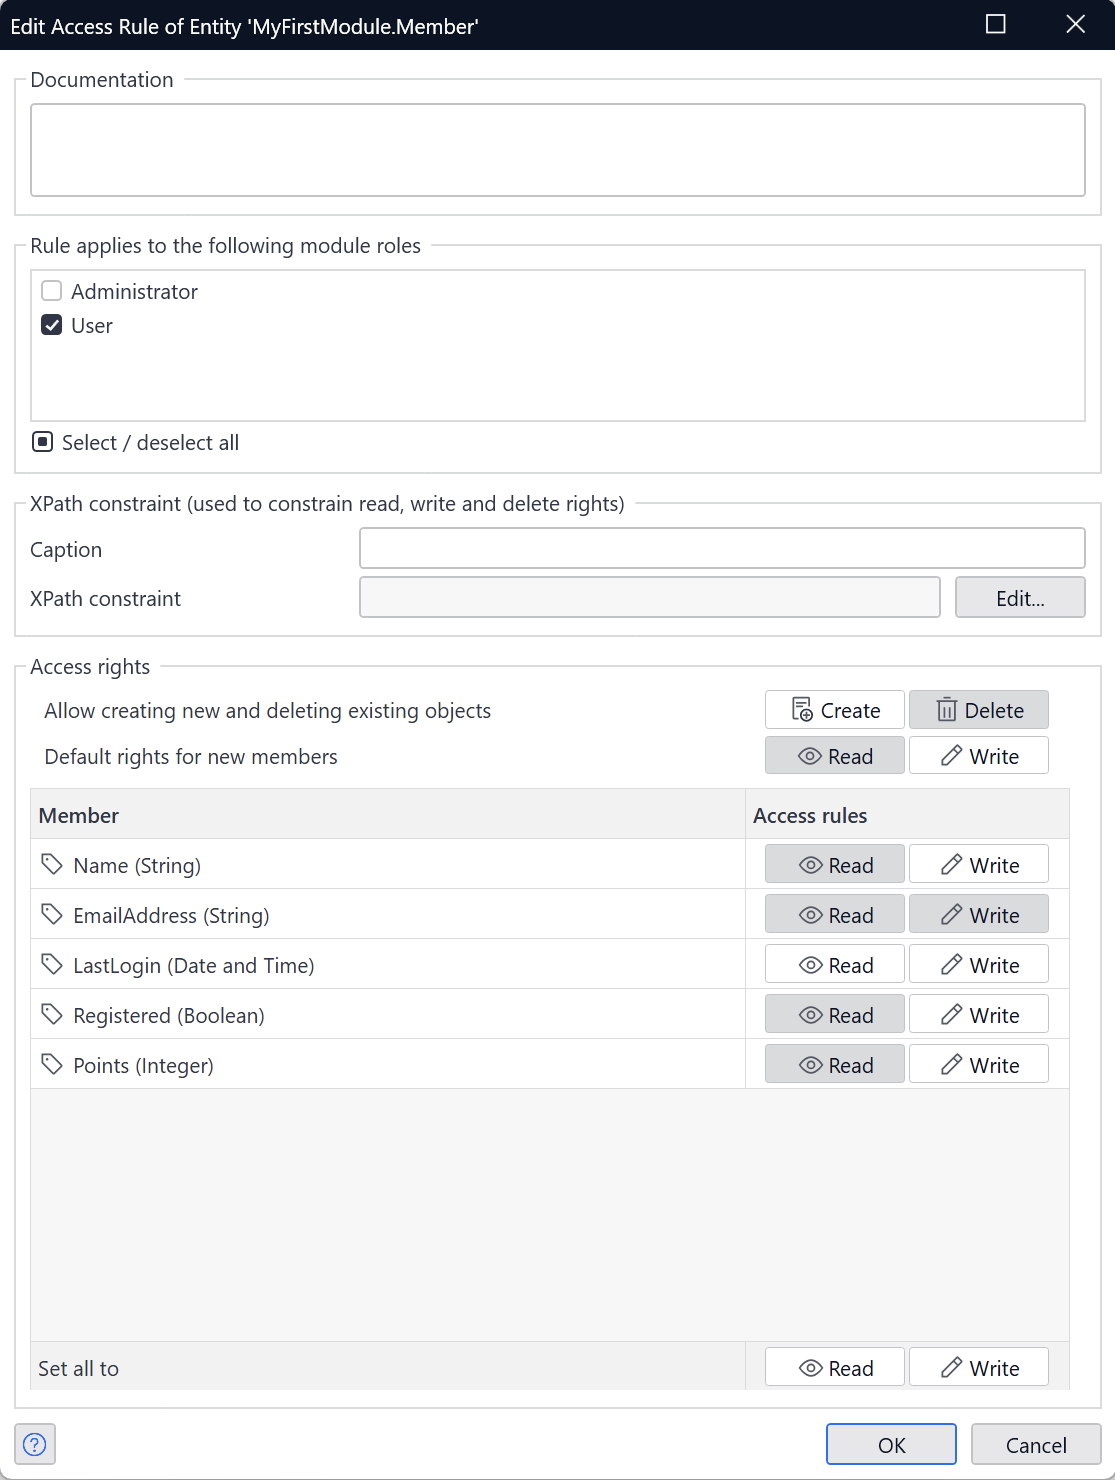
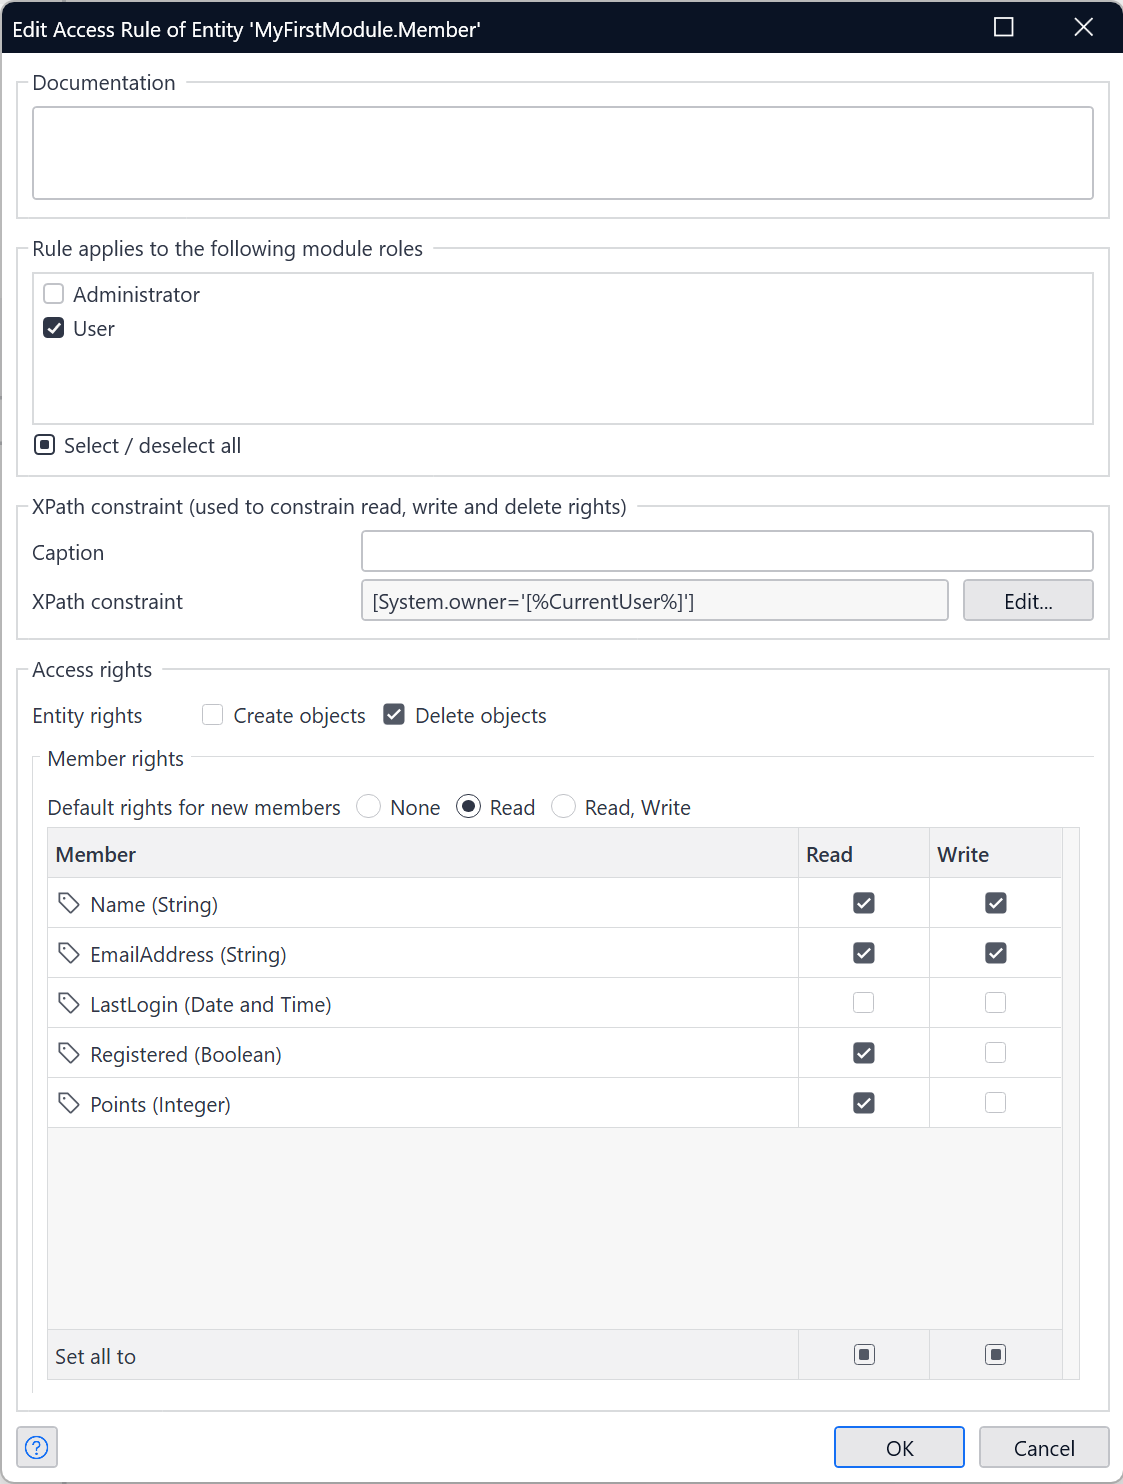
Improve documentation, add examples

diff --git a/content/en/docs/refguide/modeling/domain-model/entities/access-rules.md b/content/en/docs/refguide/modeling/domain-model/entities/access-rules.md
@@ -30,6 +30,13 @@ The **System.User** entity has inbuilt access rules where access is given to its
 
 ## Defining Access Rules
 
+{{% alert color="warning" %}}
+The modernized access rule editor was made generally available in Studio Pro version 10.21.0, replacing the old editor.
+
+For guidance on using the old editor, see [Defining Access Rules Using the Old Editor](#old-editor), below.
+
+{{% /alert %}}
+
 {{% alert color="info" %}}
 In preparation for making the modernized access rule editor generally available, the features and interface were modified in Studio Pro version 10.17.0. The description below describes that version of the interface and does not fully describe the previous beta interface (Studio Pro versions 10.6.0 through 10.16.0).
 {{% /alert %}}
@@ -42,6 +49,147 @@ Access rules can be viewed via the **Access rules** tab of the entity properties
 
 {{% alert color="info" %}}
 The **Access rules** section is visible only if the [App Security](/refguide/app-security/) is set to **Production**.
+{{% /alert %}}
+
+### Editor Layout
+
+The access rules editor displays each access rule belonging to the entity as an individual column. The header shows the modules role(s) the access rules apply to. When the module role name is long or there are multiple roles, the label is clipped. Hover over the header to show the full module role(s).
+
+When there are no access rules yet, they can be added by clicking **New**. 
+
+Select an access rule by clicking on the column. When an access rule is selected, it can be edited, duplicated or deleted using the respective buttons. You can also edit an access rule by double-clicking it.
+
+{{< figure src="/attachments/refguide/modeling/domain-model/entities/access-rules/access-rules-editor.png" alt="This image show the access rules editor layout" width="550px" class="no-border" >}}
+
+#### XPath Constraint
+
+When there is a value shown in the **XPath constraint** row for a specific access rule, this means it has an XPath constraint. The access rule will only be granted if the XPath constraint is true. When an XPath constraint has a caption, this is shown instead of the XPath constraint itself.
+
+### Entity Rights
+
+By setting the appropriate entity rights in an access rule, you can control the ability to create and/or delete objects of the entity. By default, an access rule has no entity rights. 
+
+When an access rule has entity rights, this is shown using the **Create** ({{% icon name="add" color="gray" %}}) and/or **Delete** ({{% icon name="trash-can" %}}) icon in the entity rights row for the specific access rule.
+
+### Attribute and Association Rights
+
+In the access rule, access to specific members (attributes or associations belonging to the entity) can be controlled. The access can be **None**, **Read**, or **Read and Write**. When there is no access, no icon is displayed in the row of the member in the access rule column. If there is **Read** access, a **Read** icon ({{% icon name="view" %}}) is displayed. For **Read and Write** access, both the **Read** ({{% icon name="view" %}}) and **Write** ({{% icon name="pencil" %}}) icons are displayed.
+
+### Creating or editing an access rule
+
+Access rules can be created from the **New Access Rule** dialog. This dialog can be opened by clicking **New**. To edit an existing access rule, select an access rule and click **Edit**. You can also double-click on an access rule. 
+
+{{< figure src="/attachments/refguide/modeling/domain-model/entities/access-rules/access-rule-editor.png" alt="This image indicates the position of the Delete icons" width="550px" class="no-border" >}}
+
+#### Documentation
+
+You can add documentation to describe the access rule. 
+
+#### Module roles
+
+Select the module role(s) this access rule applies to. If there are no module roles selected there will be a consistency error.
+
+#### XPath Constraints
+
+To edit the XPath constraint, click **Edit...** next to the XPath constraint field. This will open the XPath editor dialogue to edit the XPath constraint of the access rule.
+
+{{% alert color="warning" %}}
+XPath constraints can only be applied to persistable entities, as they are applied by the database. Defining XPath constraints for non-persistable entities results in consistency errors.
+{{% /alert %}}
+
+There are two constraints that can be appended easily with a single button click. 
+
+##### Owner
+
+The **Owner** button adds an XPath constraint so the access rule is only applied if the object owner is the current end-user.
+
+```java
+[System.owner='[%CurrentUser%]']
+```
+
+This constraint is only valid when the [Store 'owner'](/refguide/entities/#store-owner) checkbox in the **System members** section of the entity properties is checked.
+
+##### Path to User
+
+The **Path to user...** button adds an XPath constraint so the access rule is only applied when a User object which is associated (directly or indirectly) with the current object is the current end-user. When you click **Path to user...**, you can select a path to an associated entity that is either a `System.User` or a specialization of `System.User`. This is then converted into an XPath constraint for the access rule.
+
+For example:
+
+1. Assume that the **Customer** entity is a specialization of the **User** entity. The **Order** entity is associated with the **Customer** entity via the **Order_Customer** association.
+2. Assume that a logged-in customer is only allowed to view their orders, but is not allowed to view the orders of other customers.
+
+The XPath constraint can be constructed easily using the **Path to user...** button by selecting the **Customer** entity in the **Order** entity access rule. The created rule will look like this:
+
+```xpath
+[Module.Order_Customer = '[%CurrentUser%]']
+```
+
+Because of this XPath constraint, access defined in the access rule is only applied to orders for which the customer is the current end-user.
+
+#### Entity Rights
+
+You can add or edit entity rights using the **Create objects** and **Delete objects** checkboxes  next to **Entity rights**. 
+
+XPath constraints are not applied to create operations, meaning that if you enable create access in an access rule which applies to a certain module role, any end-user with this module role can create objects of this entity.
+
+XPath constraints are applied to delete operations, unlike create operations.
+
+#### Default rights for new members
+
+Specifies the rights which are applied to new attributes or associations of this entity. This option was absent from the new Access Rule Editor before version 10.19 where the rights always defaulted to no access for any module roles.
+
+#### Member Rights
+
+Access to the members can be set using the checkboxes in one of the columns next to the member description. 
+
+You can also click the **Read** or **Write** checkboxes in the **Set all to** footer to enable or disable 'Read' or 'Read and Write' access for all attributes and associations in this column. 
+
+{{% alert color="info" %}}
+You cannot set *Write* access to attributes which are calculated. This includes both attributes where the attribute value is set to **Calculated** and attributes of type *Autonumber*.
+{{% /alert %}}
+
+See [Attribute Changes and Security Constraints](#attribute-changes), above, for important considerations about giving access to attributes.
+
+### Access Rule Normalization{#normalization}
+
+Older beta versions of the new access rule editor, in Studio Pro versions 10.6 through 10.16, worked with normalized access rules. A normalized access rule is an access rule that has exactly one module role attached to it. This change was made because the editor used to work with a table where the entity members make use of the rows and module roles (optionally with XPaths) use the columns. 
+
+Access rules were automatically normalized when first using the new editor for an entity. Alternatively, all access rules in a project could be normalized at once by going to *App* *Tools* > *Normalize access rules*;
+
+## Access Rule Evaluation
+
+Access rules are defined as part of application development. This section describes the effects access rules have at runtime, under the assumption that the **App Security** is set to **Production**.
+
+Access rules are abstract descriptions of access rights. To apply them they need to be evaluated. Given an end-user with certain user roles and the state of the database it can be determined if an access rule applies. The Mendix Runtime stores the result of access rule evaluations in memory. In general, this evaluation happens on retrieval of objects from the database. The results will stay valid for the lifetime of the object, which is usually the request. Access rules are evaluated differently depending on the object state. More details about their evaluation when accessed from and end-user session are given below.
+
+### Attribute Changes and Security Constraints{#attribute-changes}
+
+If an end-user cannot view the value of an attribute because of security constraints, that attribute will never be sent to the Mendix Client.
+
+{{% alert color="warning" %}}
+Because Mendix is stateless, this can lead to unexpected results (for example, loss of changes) if changes to the attribute in a microflow are not committed immediately.
+{{% /alert %}}
+
+See [Basic CRUD Communication Pattern](/refguide/communication-patterns/#crud) in *Communication Patterns in the Mendix Runtime* for more information on how data is passed between the Runtime Server and the Mendix Client and what cases may lead to a loss of changes.
+
+### New Objects
+
+When a new object is created, or when a new object is sent to the runtime server as part of a request, all XPath constraints are assumed to evaluate as `true`. This evaluation result is stored in memory and valid for the lifetime of the request. Committing the object does *not* lead to access rules or XPath rules being re-evaluated.
+
+### Objects Stored in the Database
+
+When a persistable object that has been committed before is passed to the runtime server, the access rules are evaluated based on the current state of the object in the database. More precisely, when passing an object, only the 'changes' on the object and an 'object id' are sent. A full object is then reconstructed in two steps. Firstly, the object is retrieved from the database based on its id. At that time the access rules are evaluated based on the values retrieved from the database. Secondly, changes are applied to the object.
+
+As for new objects the result of this access rule evaluation is stored in memory and not changed for the lifetime of the object or request. In particular, changes to attributes or committing the object does not cause re-evaluation of access rules.
+
+### Non-Persistable Objects
+
+Non-persistable objects cannot have XPath constraints.
+
+
+## Defining Access Rules using the Old Editor {#old-editor}
+{{% alert color="warning" %}}
+The old editor is deprecated from 10.21.0 and will be removed in 11.0.0, in the meantime it can still be used by disabling the modern editor in the [Preferences Dialog](/refguide/preferences-dialog/#new-features).
 {{% /alert %}}
 
 An example of the access rules properties is represented in the image below:
